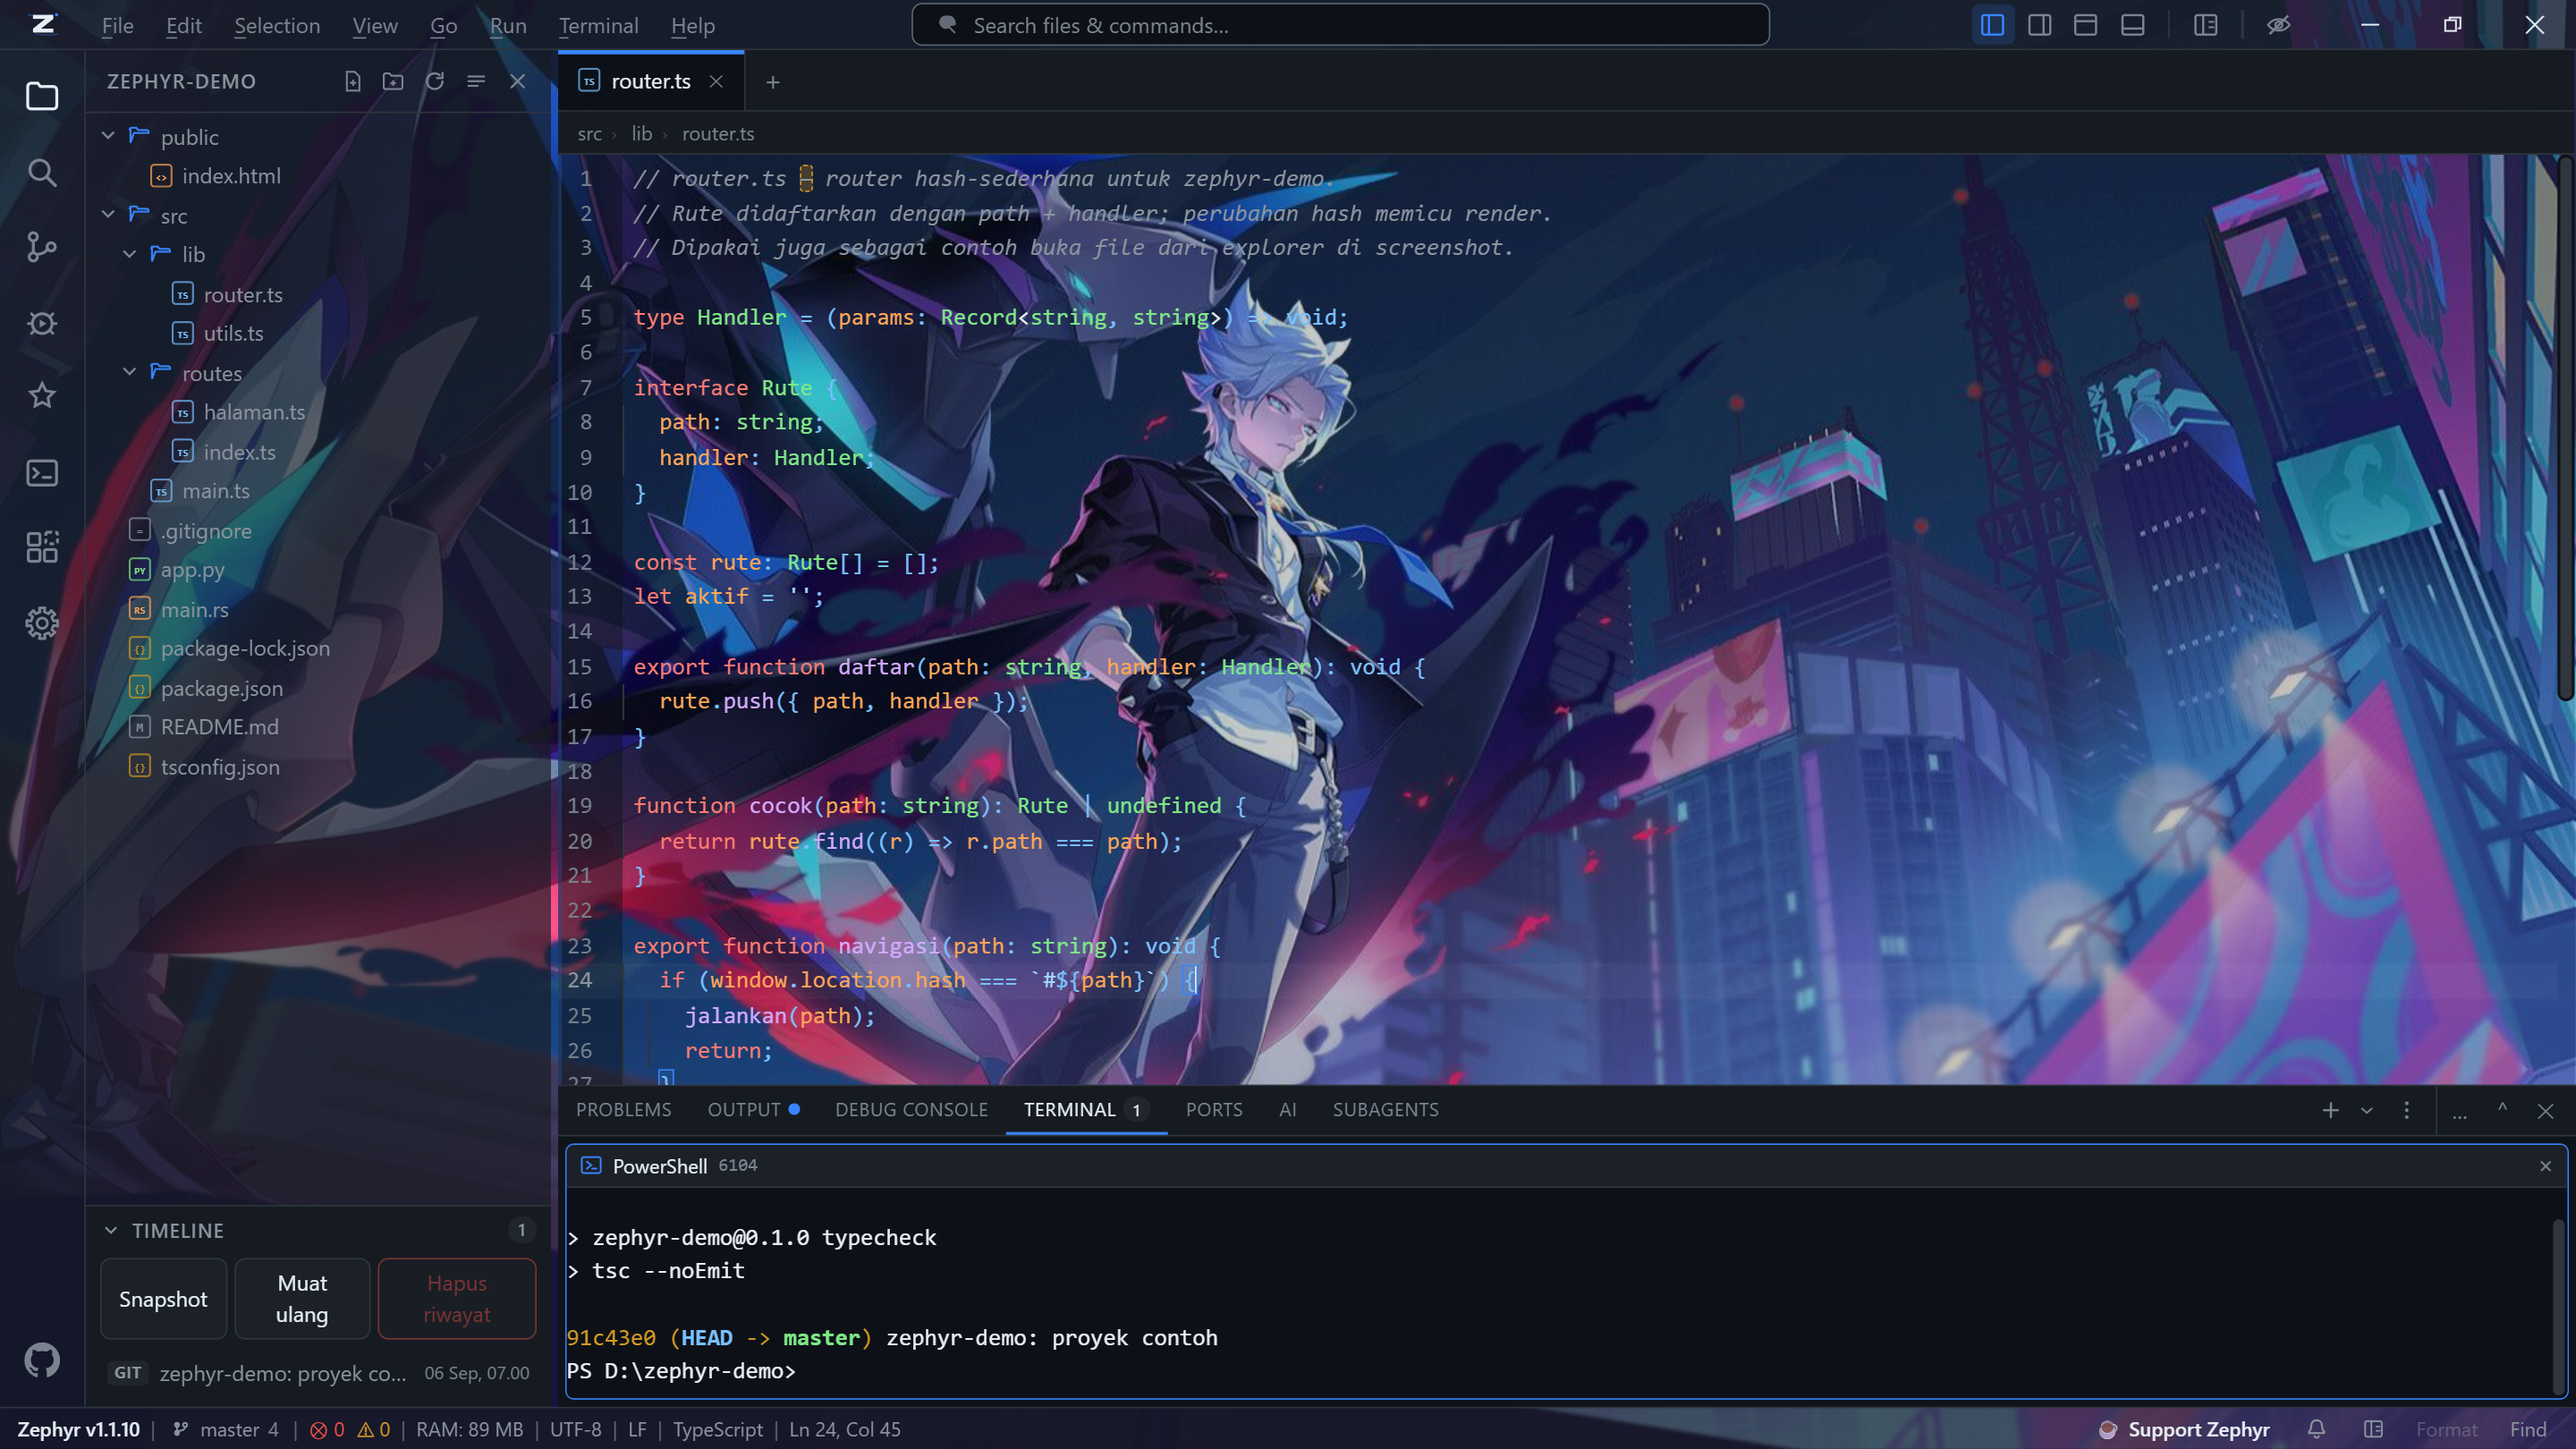
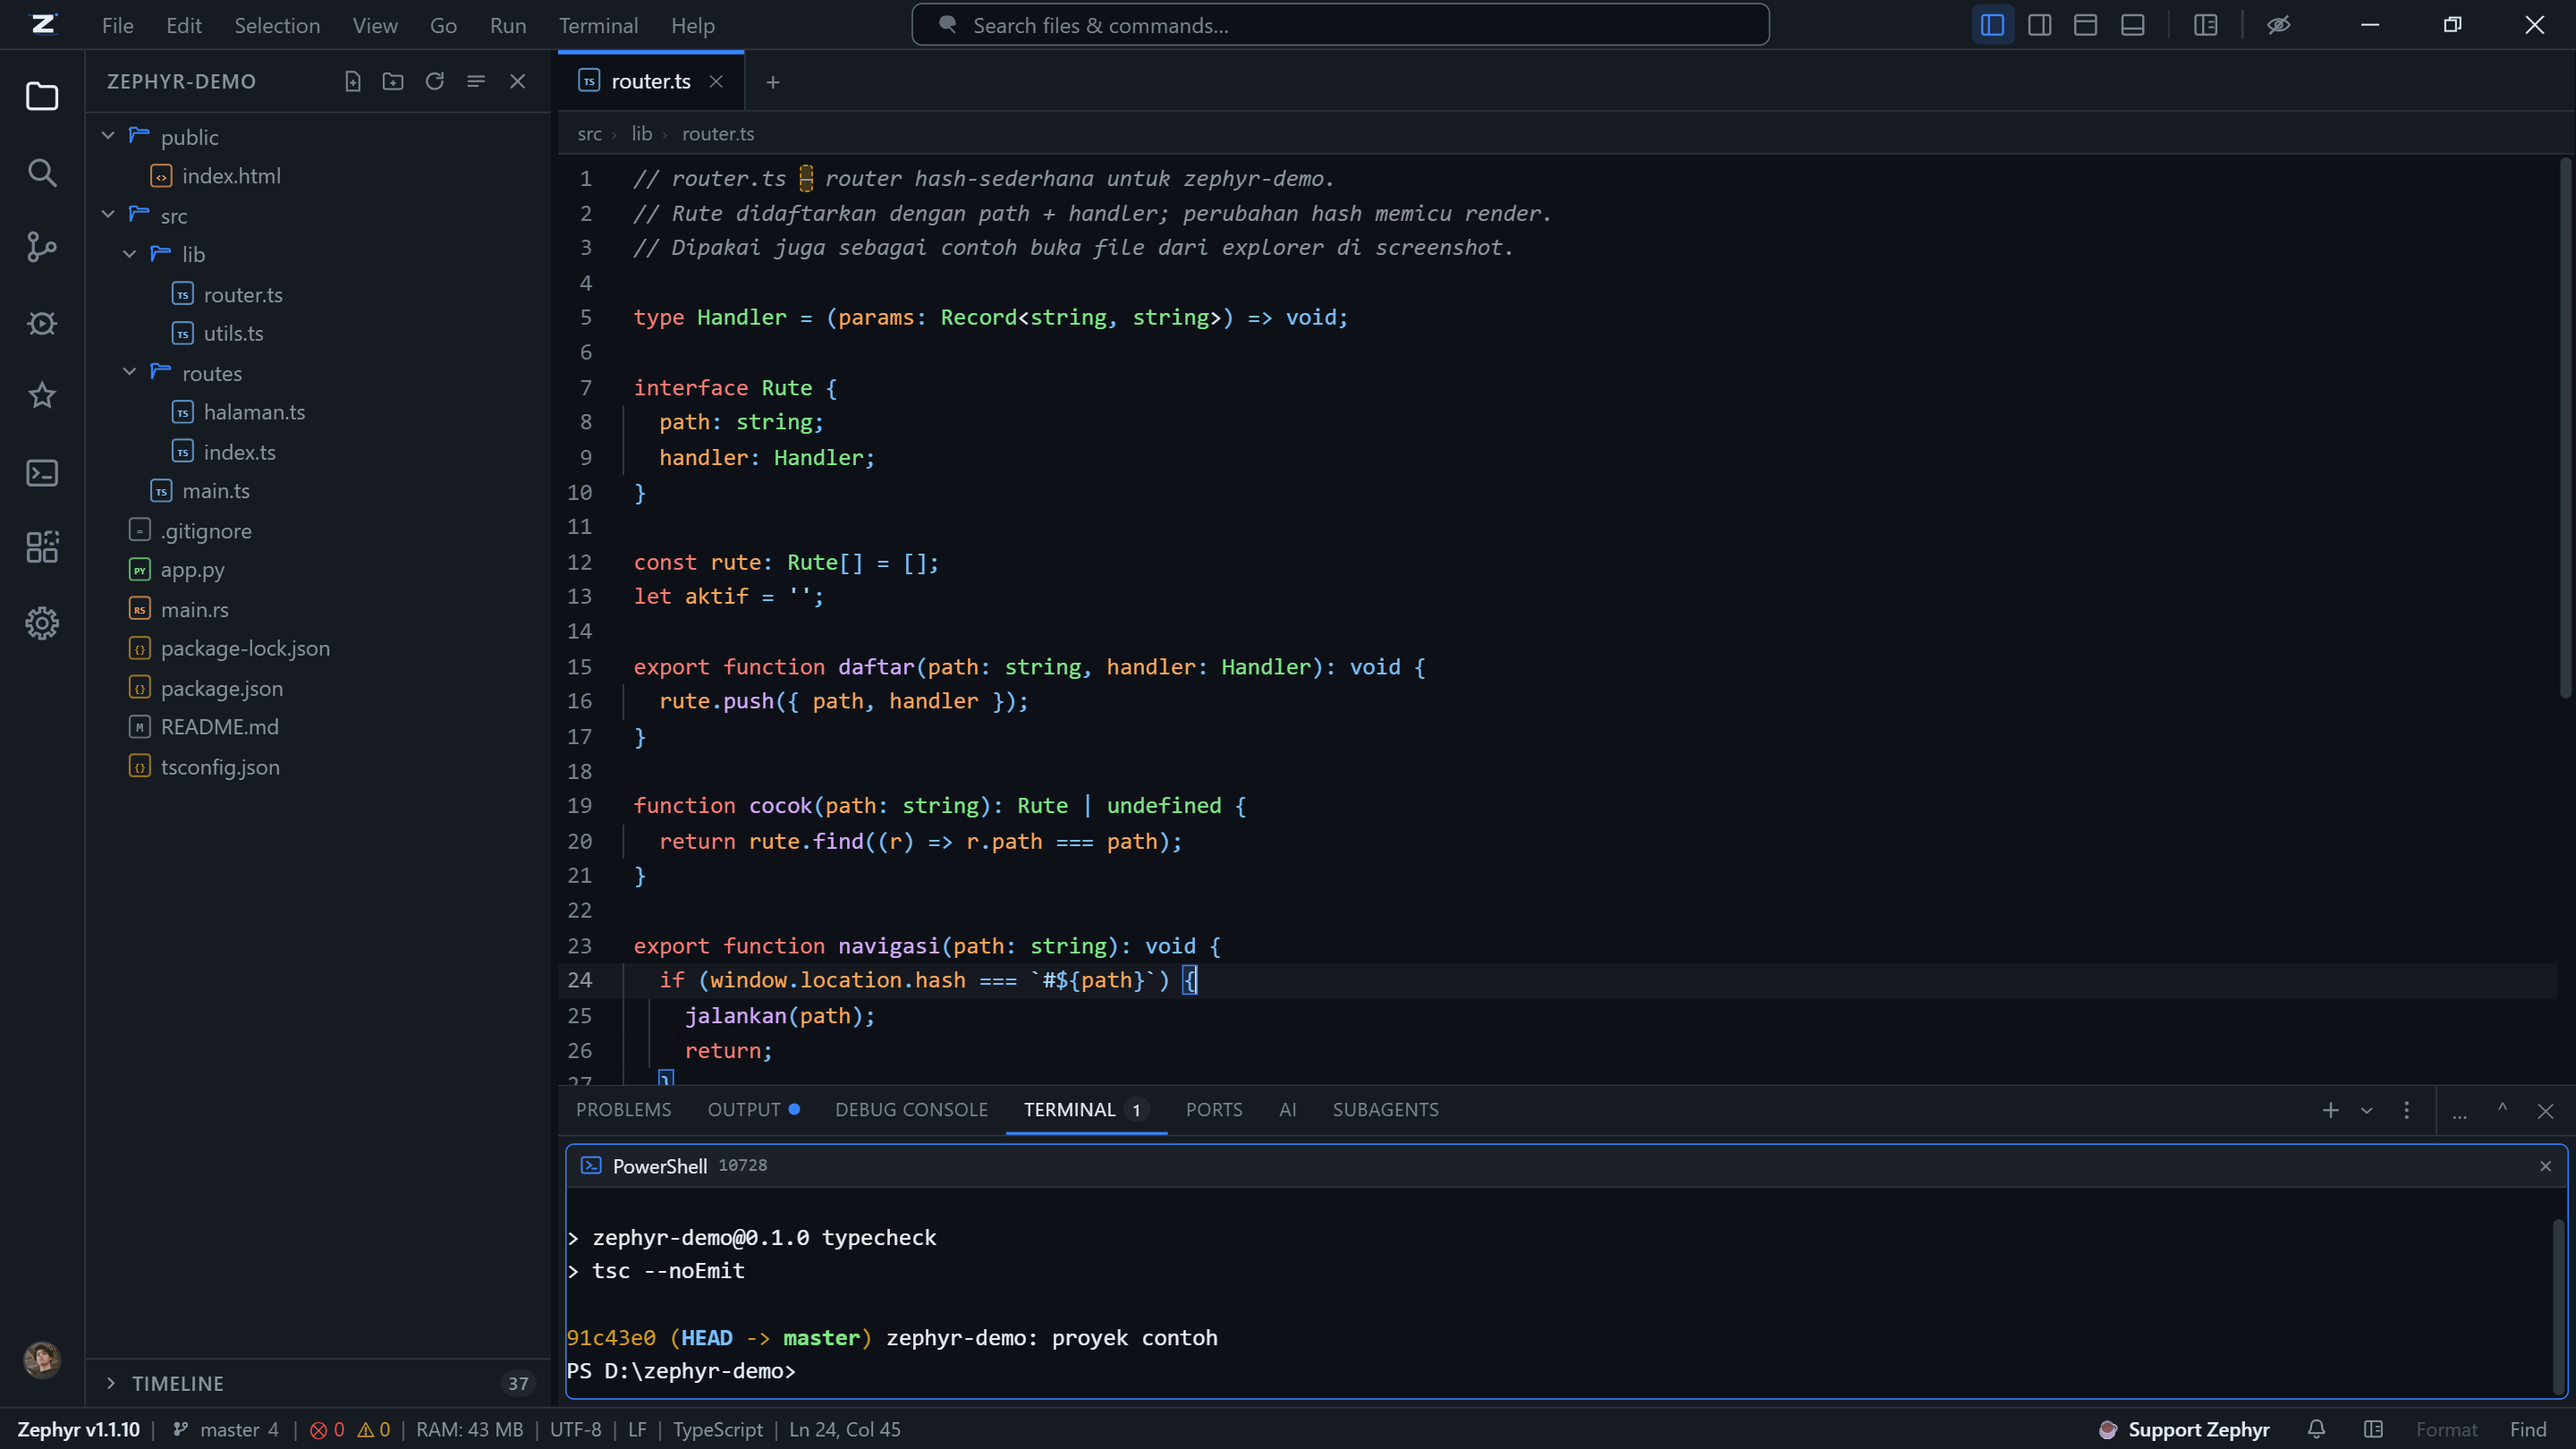
docs: new screenshots from the live app and release notes for this build
- Regenerate five screenshots (editor, source control, AI panel, subagents,
  command palette) with the wallpaper off so the frames stay readable.
- Add the agent fixes and new AI features to the release notes.

diff --git a/RELEASE_NOTES.md b/RELEASE_NOTES.md
@@ -2,6 +2,31 @@
 
 Version stays **1.1.10**: this refreshes the release contents, not the version.
 
+## Agent fixes and new AI features
+
+### Fixed
+
+- **Subagents no longer get stuck.** A provider that stalls without closing the
+  stream used to leave the agent busy forever, which blocked sending new
+  messages and made Stop do nothing. An idle watchdog now releases the step and
+  resets the state, and agent state is cleared on startup.
+- **The AI can run commands in the terminal again.** The tool that picks a
+  terminal pane read a stale store snapshot, so `terminal_exec` failed with
+  "cannot open terminal pane". Starting a dev server from chat works now.
+- **Menu clicks no longer raise stray errors.** Commands invoked without their
+  context are caught and reported instead of surfacing as a global error.
+
+### New
+
+- **Nested subagents:** an agent can split a job into parallel subagents through
+  a `subagent_run` tool, with a depth guard against endless nesting.
+- **Context compaction:** a Compact button in the AI panel and an
+  `AI: Compact Context` command turn a long session into a short summary plus
+  the most recent messages.
+- **Token and cost per session:** the context meter now shows input and output
+  tokens and an estimated cost for the active model.
+- **Thinking effort** is adjustable right from the chat header.
+
 ## Language, menus, and license
 
 - **Language switching now covers the whole app.** The translator used to check

diff --git a/README.md b/README.md
@@ -28,6 +28,10 @@ Zephyr is a Windows desktop code editor built on Tauri 2 + Rust and React 18. Th
     <td align="center"><img src="docs/screenshots/02-source-control.png" alt="Source control" /><br/><sub>Source control with unstaged changes and inline diff</sub></td>
   </tr>
   <tr>
+    <td align="center"><img src="docs/screenshots/04-ai-panel.png" alt="AI panel" /><br/><sub>AI panel with context meter, token count, and estimated cost</sub></td>
+    <td align="center"><img src="docs/screenshots/05-subagents.png" alt="Subagents" /><br/><sub>Parallel subagents with roles, live steps, and cancel</sub></td>
+  </tr>
+  <tr>
     <td colspan="2" align="center"><img src="docs/screenshots/03-palette.png" alt="Command palette" /><br/><sub>Command palette filtering the command list</sub></td>
   </tr>
 </table>
